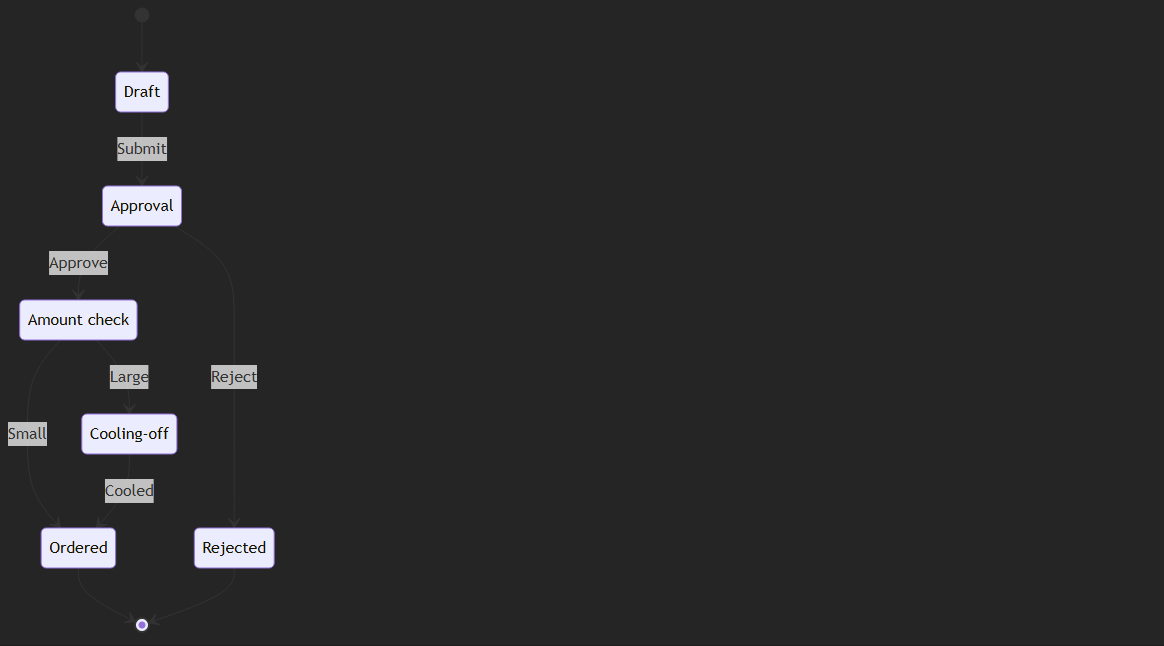
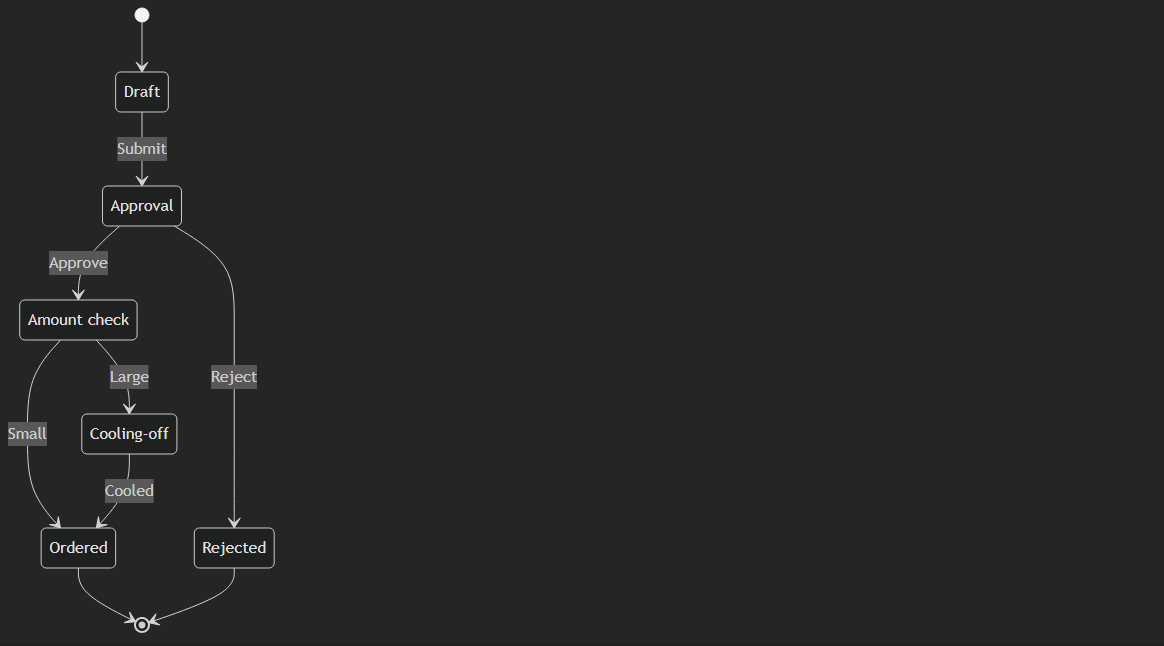
Blazor: diagram follows light/dark theme (XSM-008)
diagram.js called mermaid.initialize({ startOnLoad: false }) with no theme, so
Mermaid always drew its light palette (dark-grey lines/arrowheads) regardless
of the surrounding page - illegible on a dark XAF theme. Verified against the
live DOM (not assumed) that XAF/DevExpress Blazor adds a "dxbl-theme-dark"
class to document.body for every dark theme the switcher offers, both the
Fluent Light/Dark toggle and a DevExpress Classic dark theme (checked Blazing
Dark too). diagram.js now reads that class at render time and initializes
Mermaid with theme 'dark' or 'default' to match, re-initializing (and
re-rendering in place, via a MutationObserver on body's class - no server
round-trip) whenever the class toggles. securityLevel is left unset, i.e.
Mermaid's strict default, unchanged.

Retook both purchase-request screenshots: light is byte-identical (unaffected),
dark now shows clearly visible light-on-dark edges, arrowheads and labels.

diff --git a/src/XafStateless.Blazor/wwwroot/diagram.js b/src/XafStateless.Blazor/wwwroot/diagram.js
@@ -1,33 +1,55 @@
 // Mermaid 11.17.2 (resolved from https://cdn.jsdelivr.net/npm/mermaid@11/dist/mermaid.min.js, downloaded 2026-09-26).
 // Exposes window.diagram.render(element, text): renders a Mermaid stateDiagram-v2 definition as inline SVG into element.
 // Called from Diagram.razor through IJSRuntime; relies on the global `mermaid` from mermaid.min.js, loaded first.
+//
+// Theme: verified against the live DOM (not assumed) that XAF/DevExpress Blazor adds a "dxbl-theme-dark" class to
+// document.body for every dark theme the switcher offers - both the Fluent Light/Dark toggle and a DevExpress
+// Classic dark theme (e.g. Blazing Dark) set it the same way. Mermaid's default theme draws dark-grey lines that
+// are unreadable on that dark background, so pick Mermaid's own "dark" theme to match, and re-render in place
+// whenever that class toggles (a MutationObserver on body - no server round-trip needed). securityLevel is left
+// unset, i.e. Mermaid's strict default.
 window.diagram = (function () {
-    let initialized = false;
+    let initializedDark = null;   // null until the first render; tracks which mode mermaid.initialize last used
+    let last = null;              // { element, text } of the most recent render, replayed when the theme toggles
+    let observing = false;
     let counter = 0;
 
-    function ensureInitialized() {
-        if (!initialized) {
-            mermaid.initialize({ startOnLoad: false });
-            initialized = true;
+    function isDark() {
+        return document.body.classList.contains("dxbl-theme-dark");
+    }
+
+    function ensureInitialized(dark) {
+        if (initializedDark === dark) return;
+        initializedDark = dark;
+        mermaid.initialize({ startOnLoad: false, theme: dark ? "dark" : "default" });
+    }
+
+    function observeThemeChanges() {
+        if (observing) return;
+        observing = true;
+        new MutationObserver(() => {
+            if (last && last.element.isConnected) render(last.element, last.text);
+        }).observe(document.body, { attributes: true, attributeFilter: ["class"] });
+    }
+
+    async function render(element, text) {
+        if (!element) return;
+        last = { element, text };
+        observeThemeChanges();
+        if (!text) {
+            element.innerHTML = "";
+            return;
+        }
+        ensureInitialized(isDark());
+        try {
+            const { svg, bindFunctions } = await mermaid.render("xafstateless-diagram-" + (counter++), text);
+            element.innerHTML = svg;
+            if (bindFunctions) bindFunctions(element);
+        } catch (e) {
+            element.innerHTML = "";
+            console.error("diagram.render failed", e);
         }
     }
 
-    return {
-        render: async function (element, text) {
-            if (!element) return;
-            if (!text) {
-                element.innerHTML = "";
-                return;
-            }
-            ensureInitialized();
-            try {
-                const { svg, bindFunctions } = await mermaid.render("xafstateless-diagram-" + (counter++), text);
-                element.innerHTML = svg;
-                if (bindFunctions) bindFunctions(element);
-            } catch (e) {
-                element.innerHTML = "";
-                console.error("diagram.render failed", e);
-            }
-        }
-    };
+    return { render };
 })();
